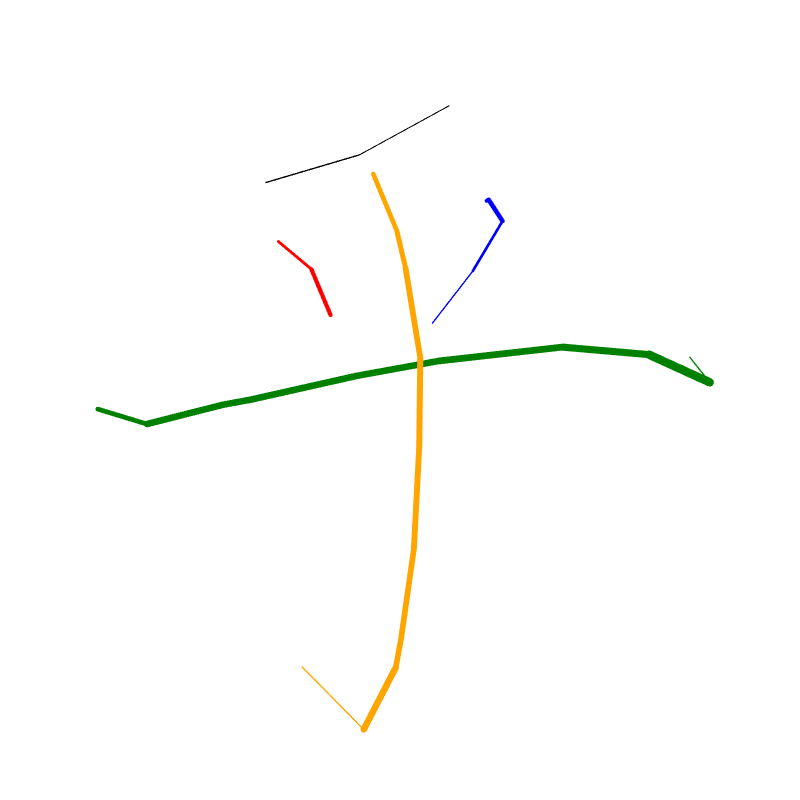
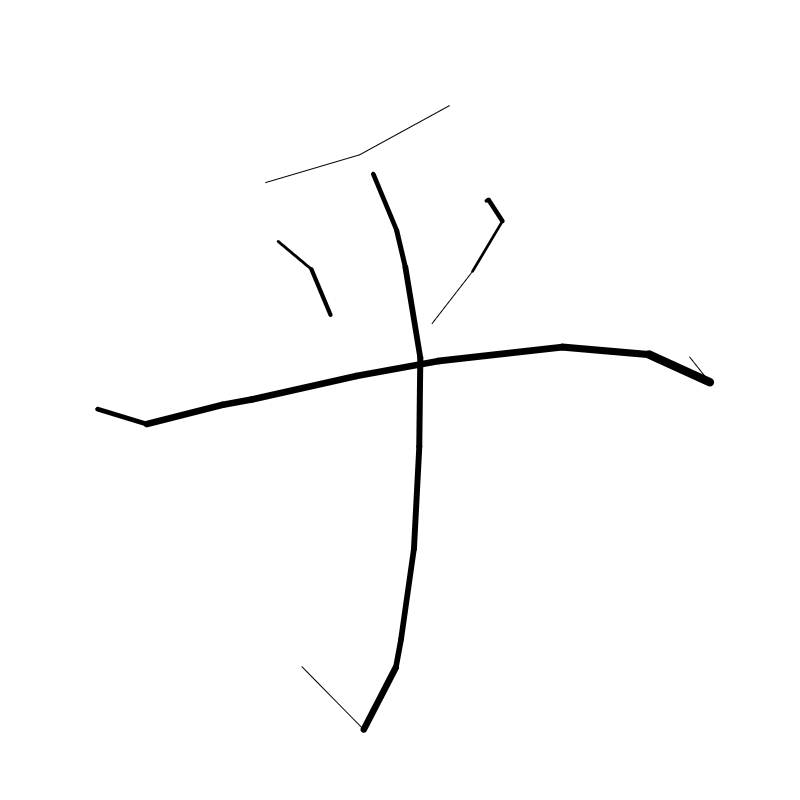
add

diff --git a/sampling/ipad版/replay.js b/sampling/ipad版/replay.js
@@ -54,9 +54,9 @@ window.addEventListener('load', () => {
             }
 
             if (data.length > 0) {
-                currentData = data; // データを保存しておく
-                // 通常描画：グリッドあり(true), 番号あり(true)
-                drawReplay(data, true, true); 
+                currentData = data; 
+                // 通常描画：グリッドあり, 番号あり, 色は通常(forceBlack=false)
+                drawReplay(data, true, true, false); 
             } else {
                 alert("有効なデータが見つかりませんでした。");
             }
@@ -68,14 +68,14 @@ window.addEventListener('load', () => {
     // 画像保存処理
     // ----------------------------------------
     function saveImage() {
-        // 1. グリッドなし(false)、番号なし(false)で再描画
+        // 1. 保存用に描画しなおす
+        // グリッドなし(false), 番号なし(false), ★強制黒(true)
         if (currentData.length > 0) {
-            drawReplay(currentData, false, false); 
+            drawReplay(currentData, false, false, true); 
         } else {
-            // データ未読み込み時（空白の紙として保存する場合）
+            // データがない場合も白背景にする
             ctx.fillStyle = '#ffffff';
             ctx.fillRect(0, 0, canvas.width, canvas.height);
-            // グリッド等を描かないならこれだけでOK
         }
 
         // 2. 画像として保存
@@ -84,9 +84,10 @@ window.addEventListener('load', () => {
         link.href = canvas.toDataURL('image/png');
         link.click();
 
-        // 3. 画面表示用に元に戻す：グリッドあり(true), 番号あり(true)
+        // 3. 画面表示用に戻す
+        // グリッドあり, 番号あり, 色は通常(forceBlack=false)
         if (currentData.length > 0) {
-            drawReplay(currentData, true, true);
+            drawReplay(currentData, true, true, false);
         } else {
             ctx.clearRect(0, 0, canvas.width, canvas.height);
             drawGridAndNumbers(true, true);
@@ -185,12 +186,13 @@ window.addEventListener('load', () => {
     // 描画処理
     // 引数 drawGrid: trueなら罫線あり
     // 引数 drawNumbers: trueなら番号あり
+    // 引数 forceBlack: trueなら軌跡をすべて黒にする
     // ----------------------------------------
-    function drawReplay(data, drawGrid = true, drawNumbers = true) {
+    function drawReplay(data, drawGrid = true, drawNumbers = true, forceBlack = false) {
         // キャンバスをクリア
         ctx.clearRect(0, 0, canvas.width, canvas.height);
 
-        // ★重要: 保存時に背景が透明にならないよう白で塗りつぶす
+        // 背景を白で塗りつぶす (透過防止)
         ctx.fillStyle = '#ffffff';
         ctx.fillRect(0, 0, canvas.width, canvas.height);
         
@@ -219,8 +221,14 @@ window.addEventListener('load', () => {
             const pressure = point.pressure || 0;
             const lineWidth = Math.max(1, pressure * 1.5);
 
-            const colorIdx = (point.stroke_id - 1) % colors.length;
-            const color = colors[colorIdx >= 0 ? colorIdx : 0];
+            // ★色決定ロジック
+            let color;
+            if (forceBlack) {
+                color = '#000000'; // 黒固定
+            } else {
+                const colorIdx = (point.stroke_id - 1) % colors.length;
+                color = colors[colorIdx >= 0 ? colorIdx : 0]; // パレット使用
+            }
 
             ctx.lineWidth = lineWidth;
             ctx.strokeStyle = color;
@@ -246,6 +254,7 @@ window.addEventListener('load', () => {
                     lastX = null; lastY = null;
                 }
             } else {
+                // Plotter Logic
                 const isMoveCommand = (point.command === 'A0' || point.command === 'G0');
                 const isDrawCommand = (point.command === 'A1' || point.command === 'G1' || point.command === 'D1');
 
@@ -281,7 +290,6 @@ window.addEventListener('load', () => {
     function drawGridAndNumbers(drawGrid = true, drawNumbers = true) {
         const cellSize = canvasSize / GRID_SIZE;
 
-        // グリッド線と外枠 (drawGridがtrueの時だけ描画)
         if (drawGrid) {
             ctx.strokeStyle = '#e0e0e0';
             ctx.lineWidth = 1;
@@ -294,13 +302,11 @@ window.addEventListener('load', () => {
             }
             ctx.stroke();
 
-            // 外枠
             ctx.strokeStyle = '#333';
             ctx.lineWidth = 2;
             ctx.strokeRect(0, 0, canvas.width, canvas.height);
         }
 
-        // セル番号 (drawNumbersがtrueの時だけ描画)
         if (drawNumbers) {
             ctx.fillStyle = '#ccc'; 
             ctx.font = '20px sans-serif';
@@ -318,6 +324,6 @@ window.addEventListener('load', () => {
         }
     }
     
-    // 初期表示（両方あり）
+    // 初期表示
     drawGridAndNumbers(true, true);
 });

diff --git a/src/debug/IoU評価.py b/src/debug/IoU評価.py
@@ -5,6 +5,20 @@ import numpy as np
 import os
 import pandas as pd
 
+# --- 【重要】日本語パス対応の画像読み込み関数 ---
+def imread_jp(filename, flags=cv2.IMREAD_GRAYSCALE):
+    """
+    日本語（全角文字）を含むパスから画像を読み込むための関数
+    np.fromfile でバイナリとして読み込み、cv2.imdecode で画像変換する
+    """
+    try:
+        n = np.fromfile(filename, np.uint8)
+        img = cv2.imdecode(n, flags)
+        return img
+    except Exception as e:
+        print(f"Read Error: {e}")
+        return None
+
 # --- 画像処理ロジック (サイズ正規化 & 重心合わせ) ---
 
 def normalize_char_shape(img_bin, canvas_size=(300, 300)):
@@ -12,62 +26,64 @@ def normalize_char_shape(img_bin, canvas_size=(300, 300)):
     文字部分だけを切り出し、アスペクト比を維持して
     キャンバスサイズいっぱいにリサイズ・中央配置する関数
     """
-    # 1. 文字領域（Bounding Box）を見つける
     coords = cv2.findNonZero(img_bin)
     if coords is None:
-        return np.zeros(canvas_size, dtype=np.uint8) # 文字なしの場合は真っ黒
+        return np.zeros(canvas_size, dtype=np.uint8)
         
     x, y, w, h = cv2.boundingRect(coords)
-    char_roi = img_bin[y:y+h, x:x+w] # 文字部分だけ切り抜き
+    char_roi = img_bin[y:y+h, x:x+w]
     
-    # 2. アスペクト比を維持してリサイズ計算
-    # キャンバスに収まる最大の拡大率を計算 (余白を少し持たせるため 0.9倍)
     h_roi, w_roi = char_roi.shape
     target_w, target_h = canvas_size
     
+    # 拡大率の計算（余白0.9倍）
     scale = min(target_w / w_roi, target_h / h_roi) * 0.9
     
-    new_w = int(w_roi * scale)
-    new_h = int(h_roi * scale)
+    new_w = int(max(1, w_roi * scale)) # 0にならないよう対策
+    new_h = int(max(1, h_roi * scale))
     
-    if new_w <= 0 or new_h <= 0:
-        return np.zeros(canvas_size, dtype=np.uint8)
-        
-    # リサイズ実行
     resized_char = cv2.resize(char_roi, (new_w, new_h), interpolation=cv2.INTER_AREA)
     
-    # 3. キャンバス中央に配置
     canvas = np.zeros(canvas_size, dtype=np.uint8)
     
     start_x = (target_w - new_w) // 2
     start_y = (target_h - new_h) // 2
     
-    canvas[start_y:start_y+new_h, start_x:start_x+new_w] = resized_char
+    # 範囲外エラーを防ぐクリッピング
+    end_x = min(start_x + new_w, target_w)
+    end_y = min(start_y + new_h, target_h)
+    
+    # 貼り付けサイズの調整（1pxのズレ対策）
+    paste_w = end_x - start_x
+    paste_h = end_y - start_y
+    
+    canvas[start_y:end_y, start_x:end_x] = resized_char[:paste_h, :paste_w]
     
     return canvas
 
 def calculate_iou_normalized(target_path, subject_path):
-    """
-    正規化処理付きのIoU計算
-    """
-    # グレースケール読み込み
-    img_target = cv2.imread(target_path, 0)
-    img_subject = cv2.imread(subject_path, 0)
+    """正規化処理付きのIoU計算"""
+    
+    # --- 【変更点】日本語対応の読み込み関数を使用 ---
+    img_target = imread_jp(target_path, cv2.IMREAD_GRAYSCALE)
+    img_subject = imread_jp(subject_path, cv2.IMREAD_GRAYSCALE)
+    # ---------------------------------------------
 
-    if img_target is None or img_subject is None:
+    if img_target is None:
+        print(f"Error: お手本画像が読めません: {target_path}")
+        return None
+    if img_subject is None:
+        print(f"Error: 被験者画像が読めません: {subject_path}")
         return None
 
     # 二値化 (Otsu) -> 白文字(255), 黒背景(0) に統一
-    # ※実験画像が「白背景・黒文字」なら THRESH_BINARY_INV を使う
-    # ここでは一般的な「白背景」を想定して反転(INV)させます
+    # ※白背景・黒文字画像の場合は反転(INV)が必要
     _, bin_target = cv2.threshold(img_target, 0, 255, cv2.THRESH_BINARY_INV + cv2.THRESH_OTSU)
     _, bin_subject = cv2.threshold(img_subject, 0, 255, cv2.THRESH_BINARY_INV + cv2.THRESH_OTSU)
 
-    # --- 【重要】 ここでサイズと位置を強制的に合わせる ---
-    # 両方を共通のキャンバス(300x300)に正規化
+    # サイズと位置の正規化
     norm_target = normalize_char_shape(bin_target)
     norm_subject = normalize_char_shape(bin_subject)
-    # --------------------------------------------------
 
     # IoU計算
     intersection = cv2.bitwise_and(norm_target, norm_subject)
@@ -85,10 +101,10 @@ def calculate_iou_normalized(target_path, subject_path):
 class IoUApp:
     def __init__(self, root):
         self.root = root
-        self.root.title("書字IoU評価ツール (サイズ自動補正版)")
+        self.root.title("書字IoU評価ツール (日本語パス対応版)")
         self.root.geometry("1000x700")
 
-        self.targets = {} # { "ラベル名": "ファイルパス" }
+        self.targets = {} 
         self.file_map = [] 
 
         # --- UI Layout ---
@@ -113,13 +129,11 @@ class IoUApp:
         frame_list = tk.Frame(root)
         frame_list.pack(fill="both", expand=True, padx=10, pady=5)
         
-        # ヘッダー
         h_frame = tk.Frame(frame_list)
         h_frame.pack(fill="x")
         tk.Label(h_frame, text="ファイル名", width=40, anchor="w", font=("bold")).pack(side="left")
         tk.Label(h_frame, text="比較対象のお手本", width=30, anchor="w", font=("bold")).pack(side="left")
 
-        # スクロールエリア
         canvas = tk.Canvas(frame_list, bg="white")
         scrollbar = tk.Scrollbar(frame_list, orient="vertical", command=canvas.yview)
         self.scroll_frame = tk.Frame(canvas, bg="white")
@@ -143,6 +157,7 @@ class IoUApp:
         if not paths: return
         
         for p in paths:
+            # 拡張子なしのファイル名をラベルにする
             name = os.path.splitext(os.path.basename(p))[0]
             self.targets[name] = p
             
@@ -154,10 +169,8 @@ class IoUApp:
         if not d: return
         self.lbl_dir.config(text=d)
         
-        # ファイルリスト取得
         files = sorted([f for f in os.listdir(d) if f.lower().endswith(('.png', '.jpg', '.jpeg'))])
         
-        # リセット
         for w in self.scroll_frame.winfo_children(): w.destroy()
         self.file_map = []
         
@@ -167,8 +180,8 @@ class IoUApp:
             
             tk.Label(row_frame, text=f, width=45, anchor="w", bg="white").pack(side="left")
             
-            # 自動マッチング
             var = tk.StringVar()
+            # 簡易自動マッチング（ファイル名にお手本ラベルが含まれているか）
             matched = next((k for k in self.targets if k in f), "")
             var.set(matched)
             
@@ -178,10 +191,8 @@ class IoUApp:
             self.file_map.append({"name": f, "path": os.path.join(d, f), "var": var})
 
     def refresh_combos(self):
-        # お手本リスト更新時にプルダウンの選択肢を更新
         opts = list(self.targets.keys())
         for item in self.scroll_frame.winfo_children():
-            # 子ウィジェットの中からComboboxを探す
             for child in item.winfo_children():
                 if isinstance(child, ttk.Combobox):
                     child['values'] = opts
@@ -195,8 +206,6 @@ class IoUApp:
         if not save_path: return
         
         results = []
-        
-        # プログレス表示（簡易）
         total = len(self.file_map)
         
         for i, item in enumerate(self.file_map):
@@ -212,9 +221,8 @@ class IoUApp:
             results.append([item["name"], t_label, val])
             
             if i % 10 == 0:
-                print(f"Processing {i}/{total}...")
+                print(f"Processing {i}/{total}: {item['name']}")
         
-        # 保存
         try:
             df = pd.DataFrame(results, columns=["FileName", "Target_Label", "IoU_Score"])
             df.to_csv(save_path, index=False, encoding="utf-8-sig")
